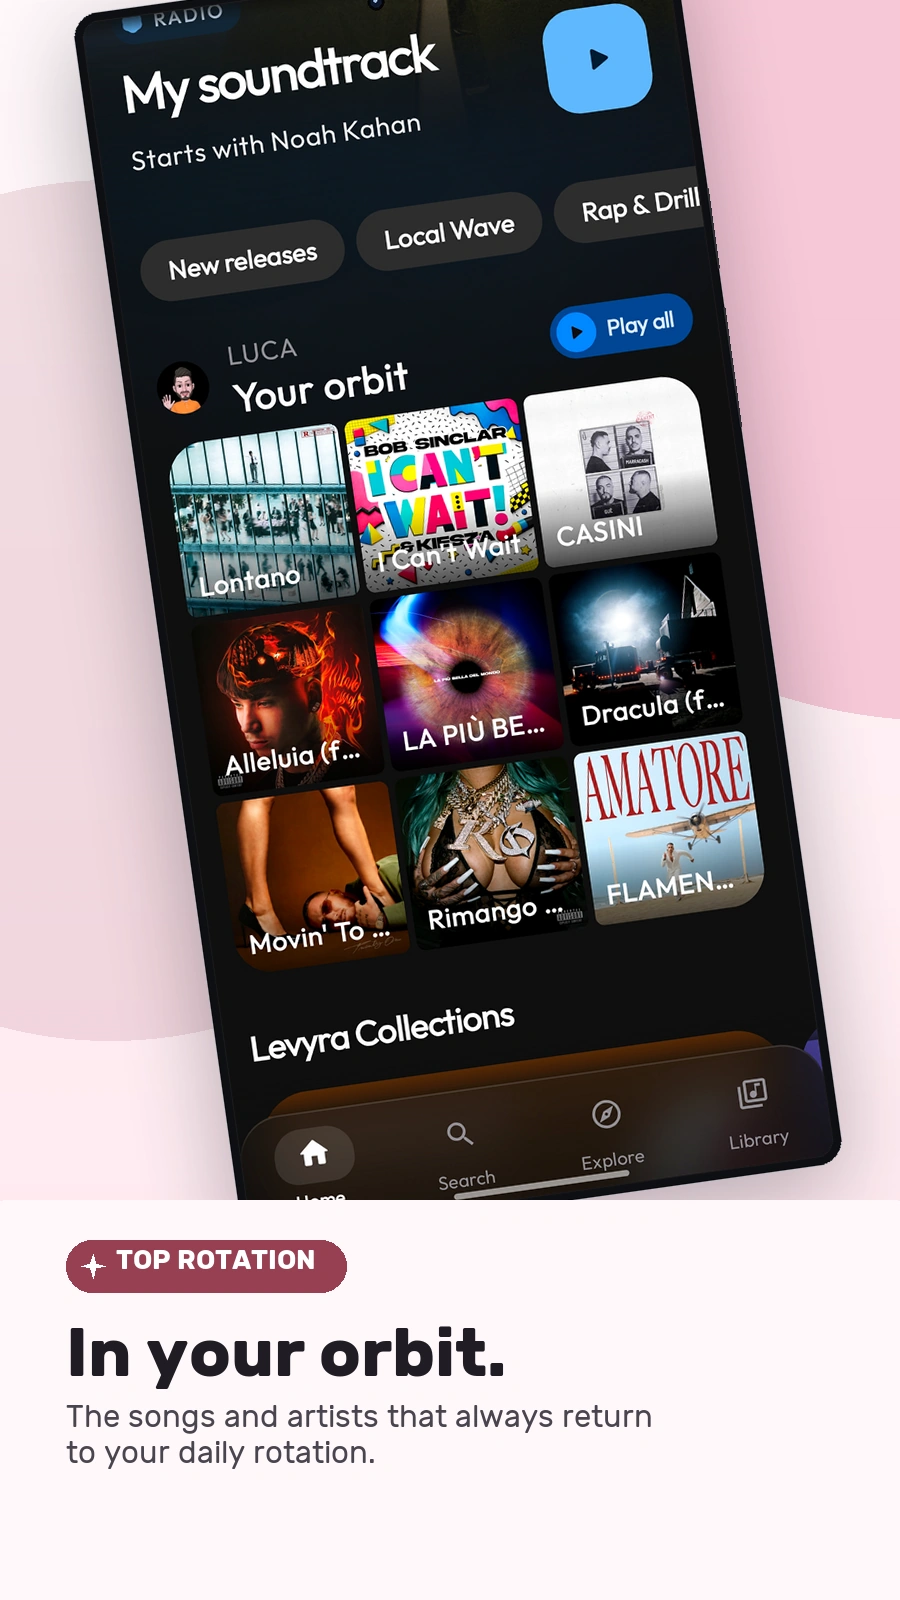
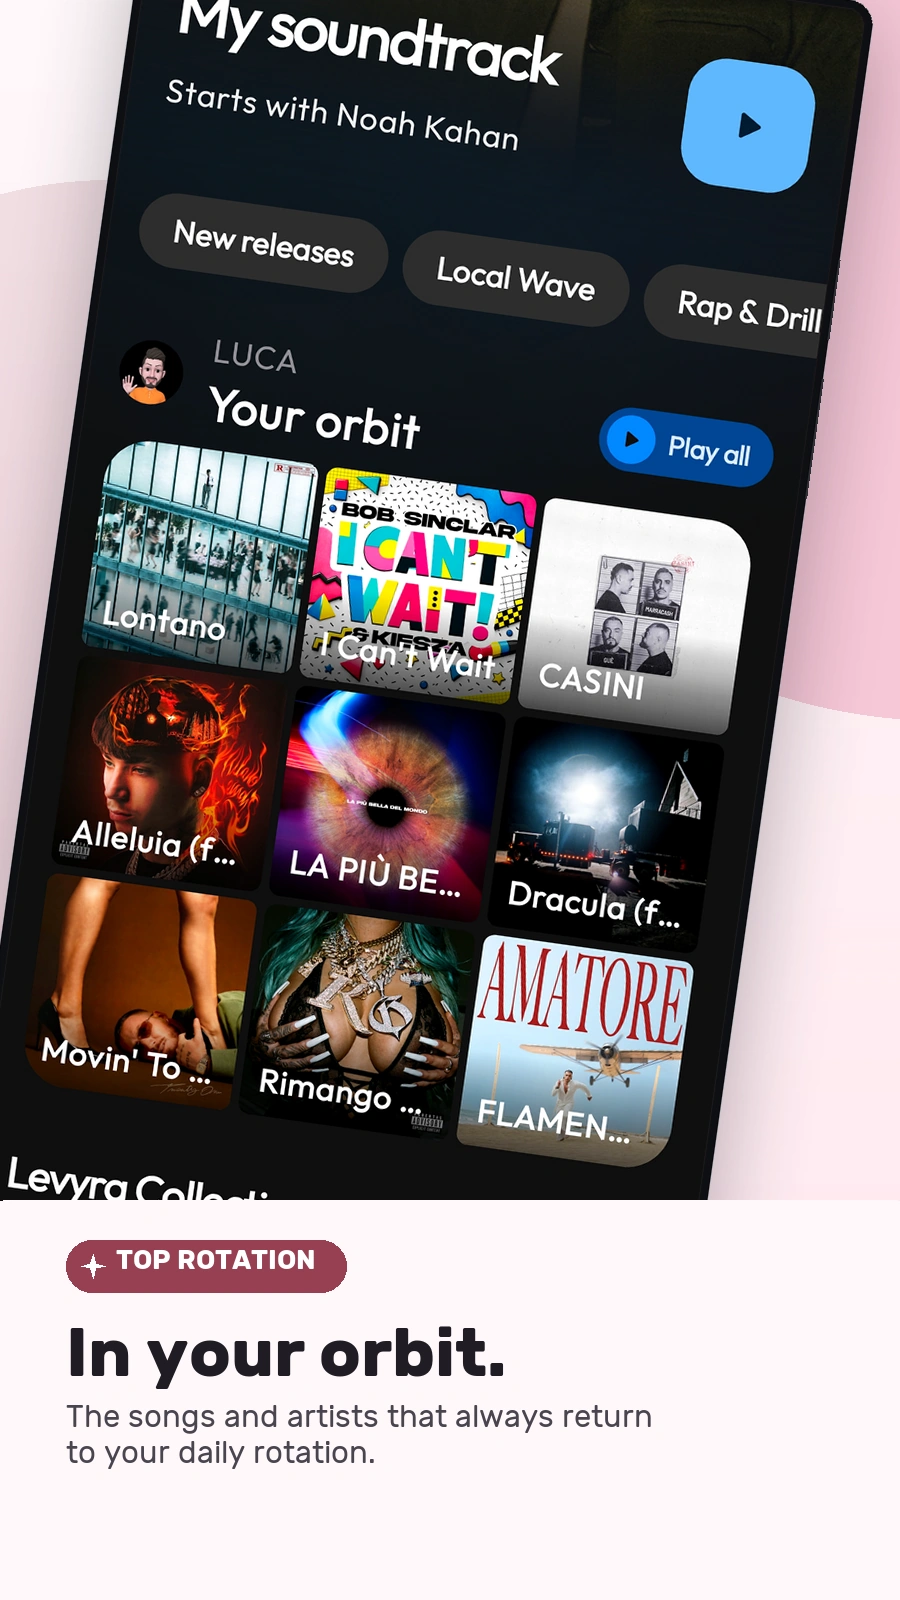
docs: amplify orbit showcase composition

diff --git a/scripts/generate_showcase_assets.py b/scripts/generate_showcase_assets.py
@@ -142,10 +142,10 @@ M3_PAIR_PALETTES = [
 
 M3_PHONE_OVERRIDES = {
     "Screenshot_20261012_193022_LEVYRA.jpg": {
-        "target_w": 590,
-        "x": 70,
-        "y": -70,
-        "angle": 8,
+        "target_w": 720,
+        "x": -65,
+        "y": -100,
+        "angle": -8,
     },
 }
 

diff --git a/README.md b/README.md
@@ -128,7 +128,7 @@ Enhanced Audio is on by default and can be turned off in Audio Settings. Technic
   <a href="docs/assets/showcase/cards/01_home.webp"><img src="docs/assets/showcase/cards/01_home.webp?v=m3-expressive-cut-v7" width="200" alt="Levyra home and personalized radio" /></a><a href="docs/assets/showcase/cards/02_stay_with_the_song.webp"><img src="docs/assets/showcase/cards/02_stay_with_the_song.webp?v=m3-expressive-cut-v7" width="200" alt="Levyra offline downloads with local audio files, artwork, and metadata" /></a><a href="docs/assets/showcase/cards/03_now_playing.webp"><img src="docs/assets/showcase/cards/03_now_playing.webp?v=m3-expressive-cut-v7" width="200" alt="Levyra synchronized lyrics" /></a><a href="docs/assets/showcase/cards/04_player_deck.webp"><img src="docs/assets/showcase/cards/04_player_deck.webp?v=m3-expressive-cut-v8" width="200" alt="Levyra customizable player decks" /></a><br>
   <a href="docs/assets/showcase/cards/05_explore_stage.webp"><img src="docs/assets/showcase/cards/05_explore_stage.webp?v=m3-expressive-cut-v7" width="200" alt="Levyra explore and fresh currents" /></a><a href="docs/assets/showcase/cards/06_levyra_mix_stage.webp"><img src="docs/assets/showcase/cards/06_levyra_mix_stage.webp?v=m3-expressive-cut-v7" width="200" alt="Levyra custom mix and live radio" /></a><a href="docs/assets/showcase/cards/07_genres.webp"><img src="docs/assets/showcase/cards/07_genres.webp?v=m3-expressive-cut-v7" width="200" alt="Levyra moods and genres" /></a><a href="docs/assets/showcase/cards/08_audio_tuning.webp"><img src="docs/assets/showcase/cards/08_audio_tuning.webp?v=m3-expressive-cut-v7" width="200" alt="Levyra audio tuning and playback engine" /></a><br>
   <a href="docs/assets/showcase/cards/09_album.webp"><img src="docs/assets/showcase/cards/09_album.webp?v=m3-expressive-cut-v7" width="200" alt="Levyra album details and tracklist" /></a><a href="docs/assets/showcase/cards/10_search.webp"><img src="docs/assets/showcase/cards/10_search.webp?v=m3-expressive-cut-v7" width="200" alt="Levyra instant search and suggestions" /></a><a href="docs/assets/showcase/cards/11_collections.webp"><img src="docs/assets/showcase/cards/11_collections.webp?v=m3-expressive-cut-v7" width="200" alt="Levyra curated collections and playlists" /></a><a href="docs/assets/showcase/cards/12_listening_rhythm.webp"><img src="docs/assets/showcase/cards/12_listening_rhythm.webp?v=m3-expressive-cut-v7" width="200" alt="Levyra listening rhythm and habits" /></a><br>
-  <a href="docs/assets/showcase/cards/13_your_orbit.webp"><img src="docs/assets/showcase/cards/13_your_orbit.webp?v=m3-expressive-cut-v9" width="200" alt="Levyra orbit and favorite tracks" /></a><a href="docs/assets/showcase/cards/14_listening_pulse.webp"><img src="docs/assets/showcase/cards/14_listening_pulse.webp?v=m3-expressive-cut-v9" width="200" alt="Levyra private listening stats and charts" /></a><a href="docs/assets/showcase/cards/15_artist_playlists.webp"><img src="docs/assets/showcase/cards/15_artist_playlists.webp?v=m3-expressive-cut-v7" width="200" alt="Levyra artist playlists and collections" /></a><a href="docs/assets/showcase/cards/16_settings_vault.webp"><img src="docs/assets/showcase/cards/16_settings_vault.webp?v=m3-expressive-cut-v7" width="200" alt="Levyra settings and local vault backups" /></a><br>
+  <a href="docs/assets/showcase/cards/13_your_orbit.webp"><img src="docs/assets/showcase/cards/13_your_orbit.webp?v=m3-expressive-cut-v10" width="200" alt="Levyra orbit and favorite tracks" /></a><a href="docs/assets/showcase/cards/14_listening_pulse.webp"><img src="docs/assets/showcase/cards/14_listening_pulse.webp?v=m3-expressive-cut-v10" width="200" alt="Levyra private listening stats and charts" /></a><a href="docs/assets/showcase/cards/15_artist_playlists.webp"><img src="docs/assets/showcase/cards/15_artist_playlists.webp?v=m3-expressive-cut-v7" width="200" alt="Levyra artist playlists and collections" /></a><a href="docs/assets/showcase/cards/16_settings_vault.webp"><img src="docs/assets/showcase/cards/16_settings_vault.webp?v=m3-expressive-cut-v7" width="200" alt="Levyra settings and local vault backups" /></a><br>
   <a href="docs/assets/showcase/cards/17_new_releases.webp"><img src="docs/assets/showcase/cards/17_new_releases.webp?v=m3-expressive-cut-v7" width="200" alt="Levyra new releases" /></a><a href="docs/assets/showcase/cards/18_artist_profile.webp"><img src="docs/assets/showcase/cards/18_artist_profile.webp?v=m3-expressive-cut-v7" width="200" alt="Levyra artist profile and discography" /></a><a href="docs/assets/showcase/cards/19_top_50.webp"><img src="docs/assets/showcase/cards/19_top_50.webp?v=m3-expressive-cut-v7" width="200" alt="Levyra Top 50 charts" /></a><a href="docs/assets/showcase/cards/20_levyra_jam.webp"><img src="docs/assets/showcase/cards/20_levyra_jam.webp?v=m3-expressive-cut-v7" width="200" alt="Levyra Jam collaborative listening on local Wi-Fi" /></a>
 </p>
 
